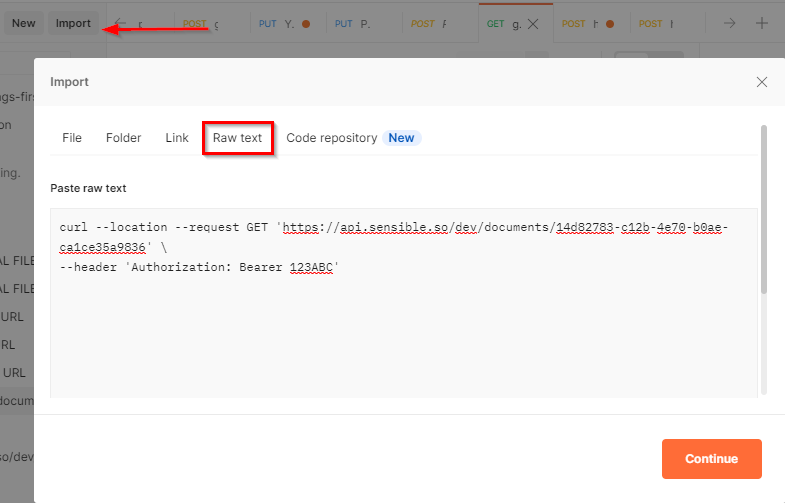
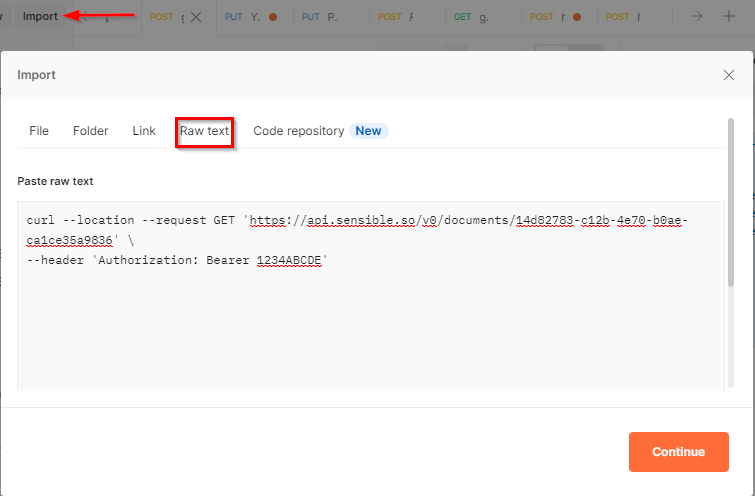
api quickstart

diff --git a/readme-sync/v0/api/getting-started-with-the-api.md b/readme-sync/v0/api/getting-started-with-the-api.md
@@ -1,18 +1,19 @@
----
 title: "Getting started with the API"
 hidden: true
----
+
 Let's get started with the Sensible API! We'll use Postman to get a quick sense of how the endpoints work together. 
 
 Prerequisites
 ====
 
+
+
 To follow this tutorial, you'll need an example config. For convenience, you can also download [Postman](https://www.postman.com/). 
 
 **Prerequisite: Create an example config**
 
-1. You need an example config. If you haven't already done so, follow the steps in [Create a config](doc:quickstart#section-create-the-config) to create an example `auto_insurance_quote` config. 
-2. **Important!** Remember to click **Publish** in the Sensible app to publish your config, or this request won't work:  
+1. You need an example config and doc type. If you haven't already done so, follow the steps in [Create a config](doc:quickstart#section-create-the-config) to create an example `anyco` config in an example  `auto_insurance_quote` document type. 
+2. **Important!** Remember to click **Publish** in the Sensible app to publish your config, or your requests won't work:  
 
 ![](https://raw.githubusercontent.com/sensible-hq/sensible-docs/main/readme-sync/assets/v0/images/quickstart_publish_config.png).
 
@@ -24,6 +25,8 @@ For an easy way to run this cURL request, download the [Postman](https://www.pos
 
  Try the synchronous extraction endpoint
  ====
+
+
 
 Let's try out the most commonly used endpoint, the  [/extract endpoint](https://sensiblehq.readme.io/reference#rate-confirmations). This endpoint takes a PDF file and returns extracted data synchronously. 
 
@@ -96,12 +99,14 @@ PDFs that are greater than 4.5MB in size or that require over 30 seconds of proc
 Provide a download URL
 ----
 
-To try out the [extract_from_url](https://sensiblehq.readme.io/reference#provide-a-download-url) endpoint, let's use the GitHub URL for the example auto_insurance_anyco_golden PDF:
+
+
+To try out the [extract_from_url](https://sensiblehq.readme.io/reference#provide-a-download-url) endpoint, let's use the GitHub URL for the example auto_insurance_anyco_golden PDF and the example `auto_insurance_quote` document type you created in the **Prerequisites** section:
 
 1. Copy the following code sample and replace YOUR_API_KEY with your API key:
 
    ```json
-   curl --location --request POST 'https://api.sensible.so/dev/extract_from_url/auto_insurance_quote' \
+   curl --location --request POST 'https://api.sensible.so/v0/extract_from_url/auto_insurance_quote' \
    --header 'Authorization: Bearer YOUR_API_KEY' \
    --header 'Content-Type: application/json' \
    --data-raw '{"document_url":"https://github.com/sensible-hq/sensible-docs/raw/main/readme-sync/assets/v0/pdfs/auto_insurance_anyco_golden.pdf"}'
@@ -127,7 +132,7 @@ To try out the [extract_from_url](https://sensiblehq.readme.io/reference#provide
 5. Copy the following code sample and replace YOUR_EXTRACTION_ID and YOUR_API_TOKEN:
 
    ```json
-   curl --location --request GET 'https://api.sensible.so/dev/documents/YOUR_EXTRACTION_ID' \
+   curl --location --request GET 'https://api.sensible.so/v0/documents/YOUR_EXTRACTION_ID' \
    --header 'Authorization: Bearer YOUR_API_TOKEN'
    ```
    
@@ -169,4 +174,13 @@ You should see a response like the following:
 
 Generate an upload URL
 ----
+
+Generate a one-time URL for the document extraction you want to run (this URL expires within minutes)l We'll use the 
+
+```json
+curl --location --request POST 'https://api.sensible.so/v0/generate_upload_url/auto_insurance_quote' \
+--header 'Content-Type: application/json' \
+--header 'Accept: application/json' \
+--header 'Authorization: Bearer eyJhbGciOiJIUzUxMiIsInR5cCI6IkpXVCJ9.eyJ1c2VyIjoiU2Vuc2libGUiLCJwZXJzaXN0ZW5jZSI6ImZ1bGwiLCJpYXQiOjE2MjMwOTEwODR9.y-4ngF0AnNfdx65t4LsuUfXailID6iKGsInxbdkgwaHZQ5NYgLr1c9R2fBOqf1T5FmngsFP8W2ptYH-TpTkB1A'
+```
 
